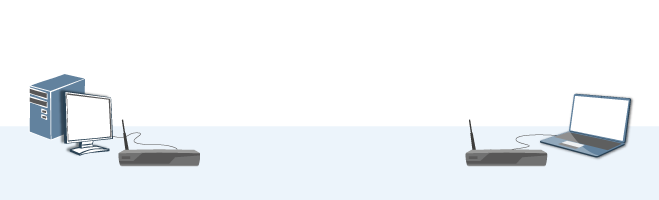
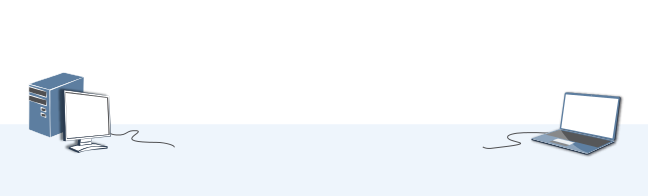
Resolvido problema de atraso de transmissão

diff --git a/js/situacao1.js b/js/situacao1.js
@@ -1,36 +1,56 @@
 var situacao1_pacote1 = 25;
 var situacao1_pacote2 = 200;
-var situacao1_pacote3 = 530;
+var situacao1_pacote3 = 550;
+var situacao1_pacote4 = 120;
 
 function mover_situ1() {
     situacao1_pacote1+=1;
     context.clearRect(0, 0, canvas.width, canvas.height);
     context.drawImage(imagem, 0, 0, canvas.width, canvas.height);
     context.drawImage(imagem3, situacao1_pacote1, 130, 40, 40);
-    if(situacao1_pacote1>=100){
+    context.drawImage(roteador, 100, 98, 120, 100);
+    context.drawImage(roteador, 450, 98, 120, 100)
+    if(situacao1_pacote1>=120){
       stop();
-      timer = setInterval(mover2_situ1,P);
+      timer = setInterval(mover2_situ1,T);
     }
 }
 
 function mover2_situ1() {
+  situacao1_pacote4+=1;
+  context.clearRect(0, 0, canvas.width, canvas.height);
+  context.drawImage(imagem, 0, 0, canvas.width, canvas.height);
+  context.drawImage(imagem3, situacao1_pacote4, 130, 40, 40);
+  context.drawImage(roteador, 100, 98, 120, 100);
+  context.drawImage(roteador, 450, 98, 120, 100)
+  if(situacao1_pacote4>=200){
+    stop();
+    timer = setInterval(mover3_situ1,P);
+  }
+}
+
+function mover3_situ1() {
   situacao1_pacote2+=1
   context.clearRect(0, 0, canvas.width, canvas.height);
   context.drawImage(imagem, 0, 0, canvas.width, canvas.height);
   context.drawImage(imagem2, situacao1_pacote2, 130, 40, 40);
-  if(situacao1_pacote2>=canvas.width-220)
+  context.drawImage(roteador, 100, 98, 120, 100);
+  context.drawImage(roteador, 450, 98, 120, 100)
+  if(situacao1_pacote2>=canvas.width-232)
   {
     stop();
-    timer = setInterval(mover3_situ1,T);
+    timer = setInterval(mover4_situ1,1);
   }
 }
 
-function mover3_situ1(){
+function mover4_situ1(){
   situacao1_pacote1=canvas.width-200;
   situacao1_pacote3+=1;
   context.clearRect(0, 0, canvas.width, canvas.height);
   context.drawImage(imagem, 0, 0, canvas.width, canvas.height);
   context.drawImage(imagem3, situacao1_pacote3, 130, 40, 40);
+  context.drawImage(roteador, 100, 98, 120, 100);
+  context.drawImage(roteador, 450, 98, 120, 100)
   if(situacao1_pacote3>=canvas.width-50){
     stop();
   }

diff --git a/js/animacao.js b/js/animacao.js
@@ -2,7 +2,7 @@ var timer;
 
 function mover() {
   if(situ==1){
-    timer = setInterval(mover_situ1,T);
+    timer = setInterval(mover_situ1,1);
   } else if(situ==2){
     timer = setInterval(mover_situ2,T);
   }
@@ -12,7 +12,8 @@ function resetar() {
   stop();
   situacao1_pacote1 = 25;
   situacao1_pacote2 = 200;
-  situacao1_pacote3 = 530;
+  situacao1_pacote3 = 550;
+  situacao1_pacote4 = 120;
 
   situacao2_pacote1 = 25;
   situacao2_pacote2 = 100;
@@ -22,6 +23,9 @@ function resetar() {
   context.drawImage(imagem, 0, 0, canvas.width, canvas.height);
   if(situ==2){
     context.drawImage(imagem2, situacao2_pacote2, 116, 96, 64);
+  } else if(situ==1){
+    context.drawImage(roteador, 100, 98, 120, 100);
+    context.drawImage(roteador, 450, 98, 120, 100);
   }
   context.drawImage(imagem3, situacao1_pacote1, 130, 40, 40);
 }
@@ -49,6 +53,15 @@ function mudar_situ(){
 
     imagem3.onload = function() {
       context.drawImage(imagem3, 25, 130, 40, 40);
+    }
+
+    imagem4.src= 'img/pacote.png';
+
+    roteador.src= 'img/roteador.png';
+
+    roteador.onload = function() {
+      context.drawImage(roteador, 100, 98, 120, 100);
+      context.drawImage(roteador, 450, 98, 120, 100)
     }
   }
 

diff --git a/index.html b/index.html
@@ -104,6 +104,8 @@
                     var imagem = new Image();
                     var imagem2 = new Image();
                     var imagem3 = new Image();
+                    var imagem4 = new Image();
+                    var roteador = new Image();
 
                     if(situ==1){
 
@@ -123,6 +125,15 @@
 
                       imagem3.onload = function() {
                         context.drawImage(imagem3, 25, 130, 40, 40);
+                      }
+
+                      imagem4.src= 'img/pacote.png';
+
+                      roteador.src= 'img/roteador.png';
+
+                      roteador.onload = function() {
+                        context.drawImage(roteador, 100, 98, 120, 100);
+                        context.drawImage(roteador, 450, 98, 120, 100)
                       }
                     }
 

diff --git a/js/script.js b/js/script.js
@@ -4,6 +4,7 @@ var T; var P;
 
 function calcular()
 {
+  resetar();
   var pacote = document.getElementById("tampacote").value; //tamanho do pacote
   var velocidade = document.getElementById("vel").value; // velocidade transmissão
   var distancia = document.getElementById("dist").value; // distância total que o pacote irá percorrer
